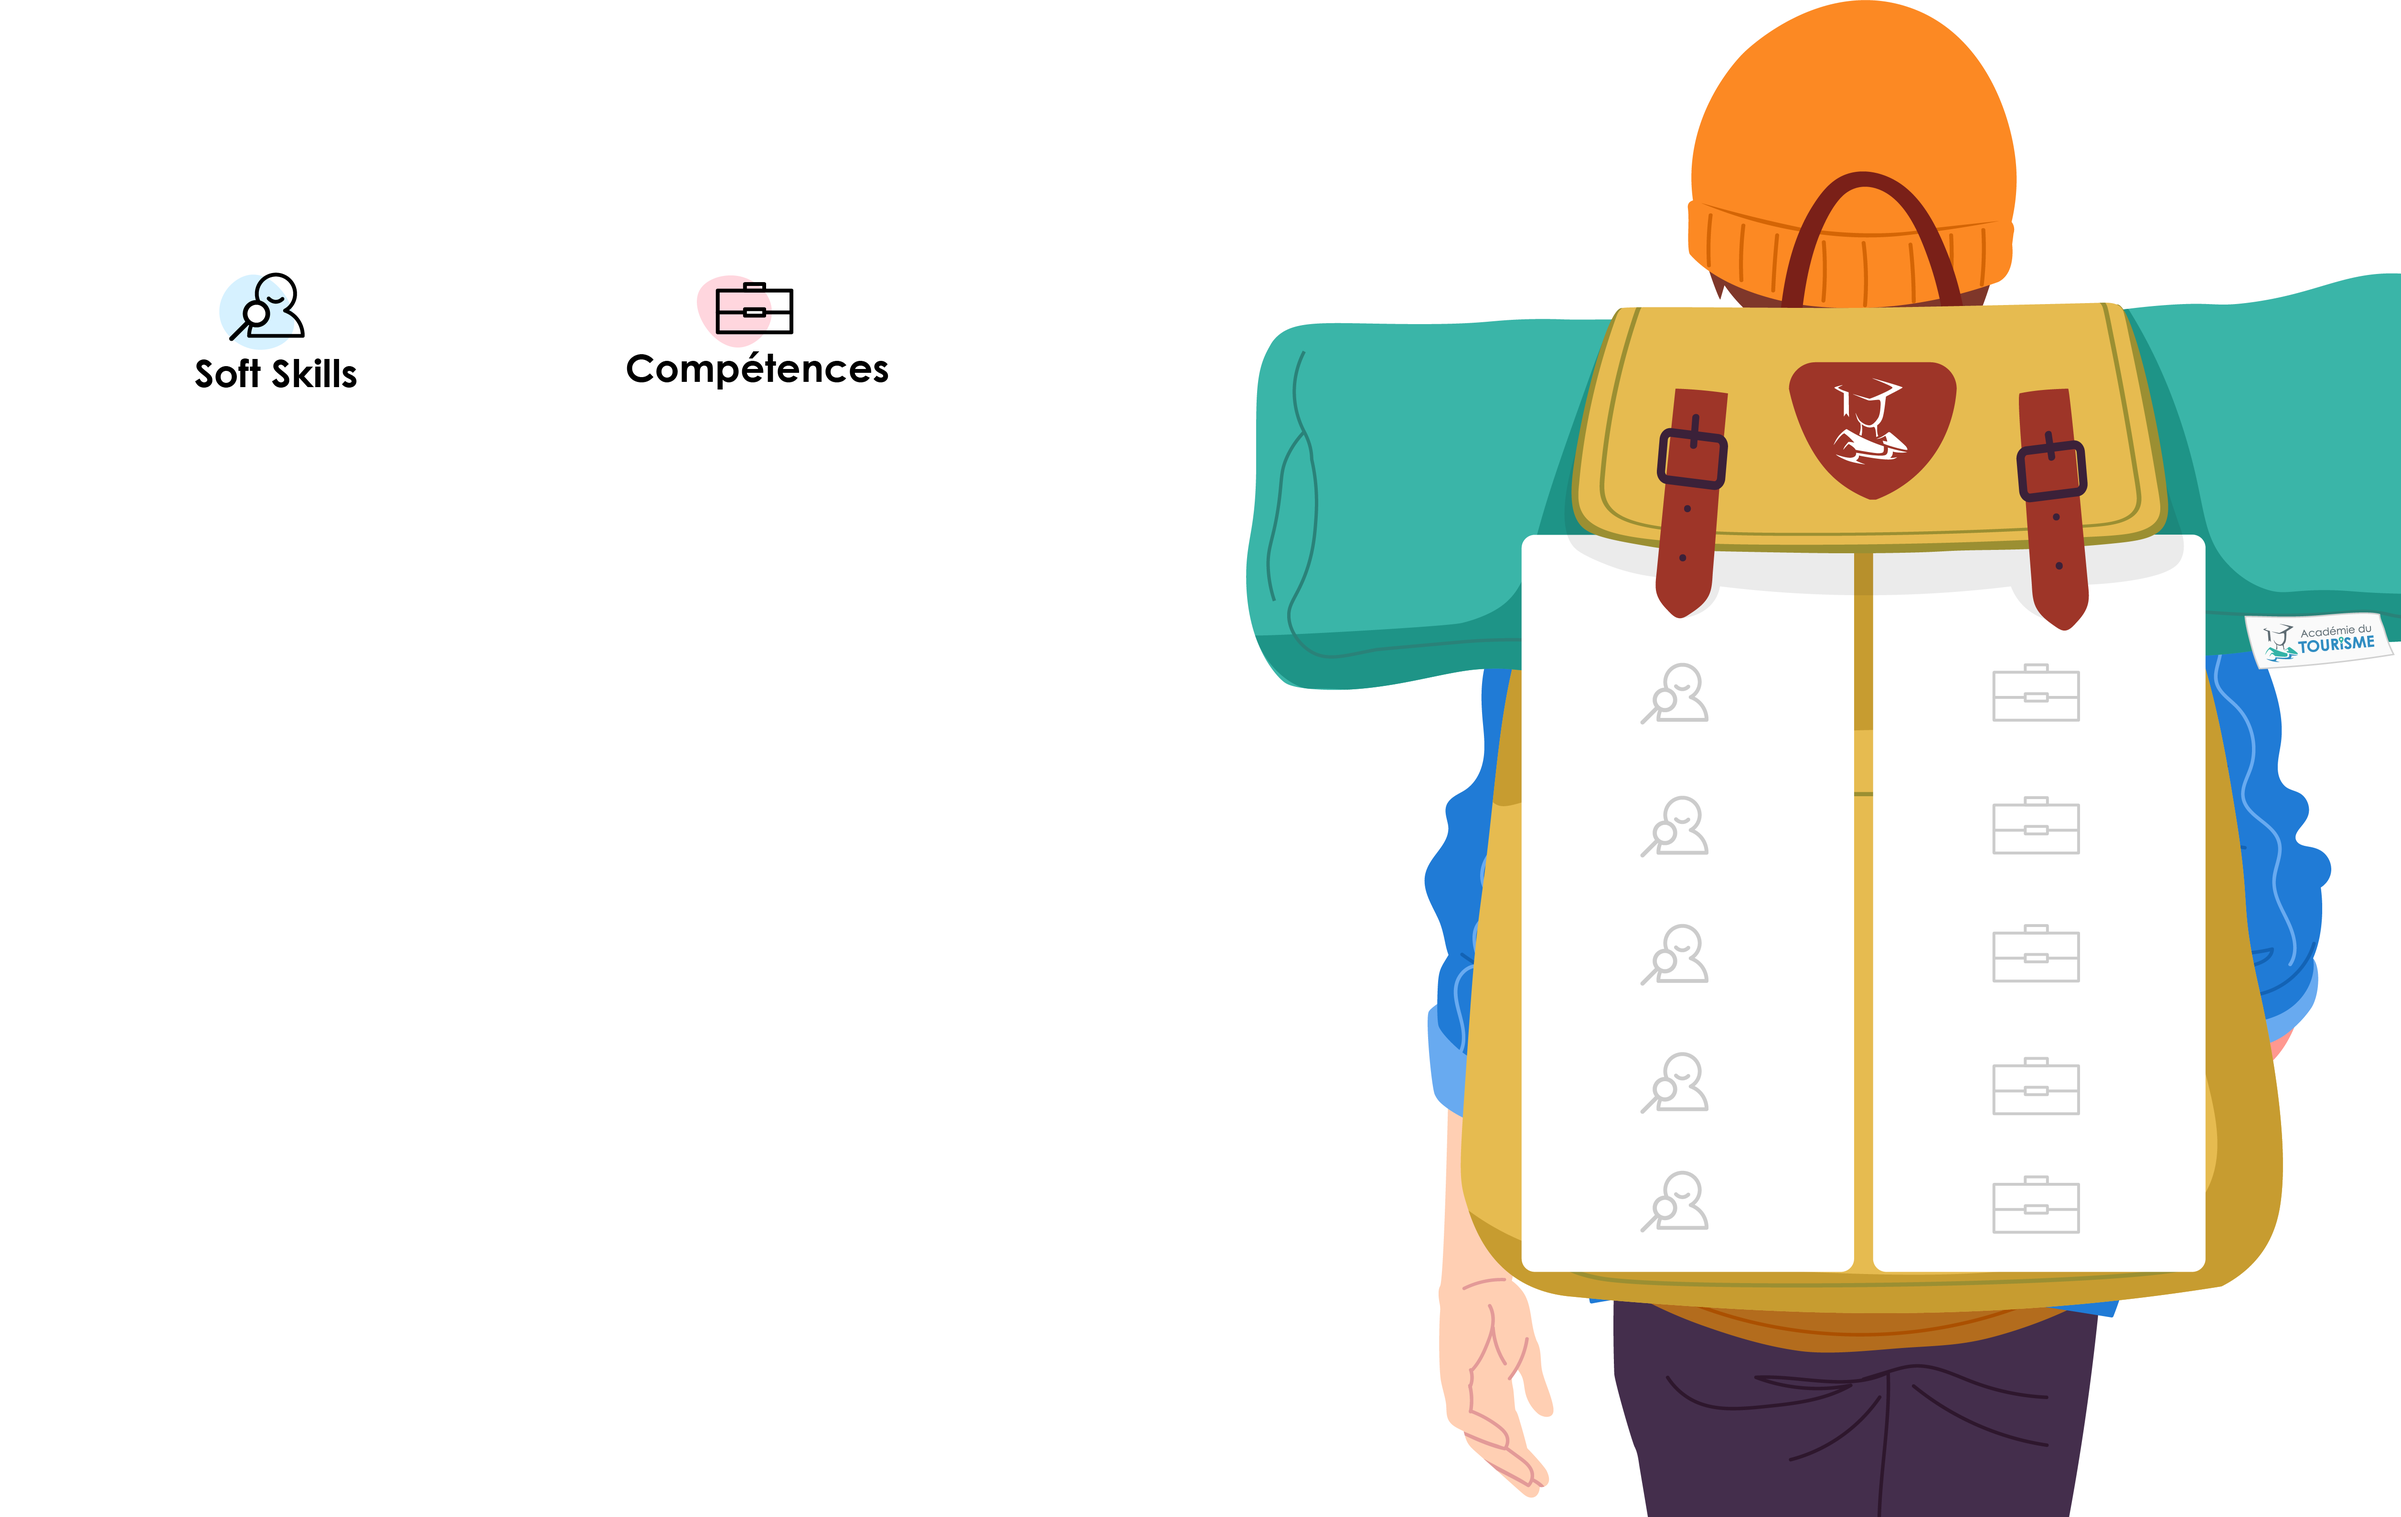
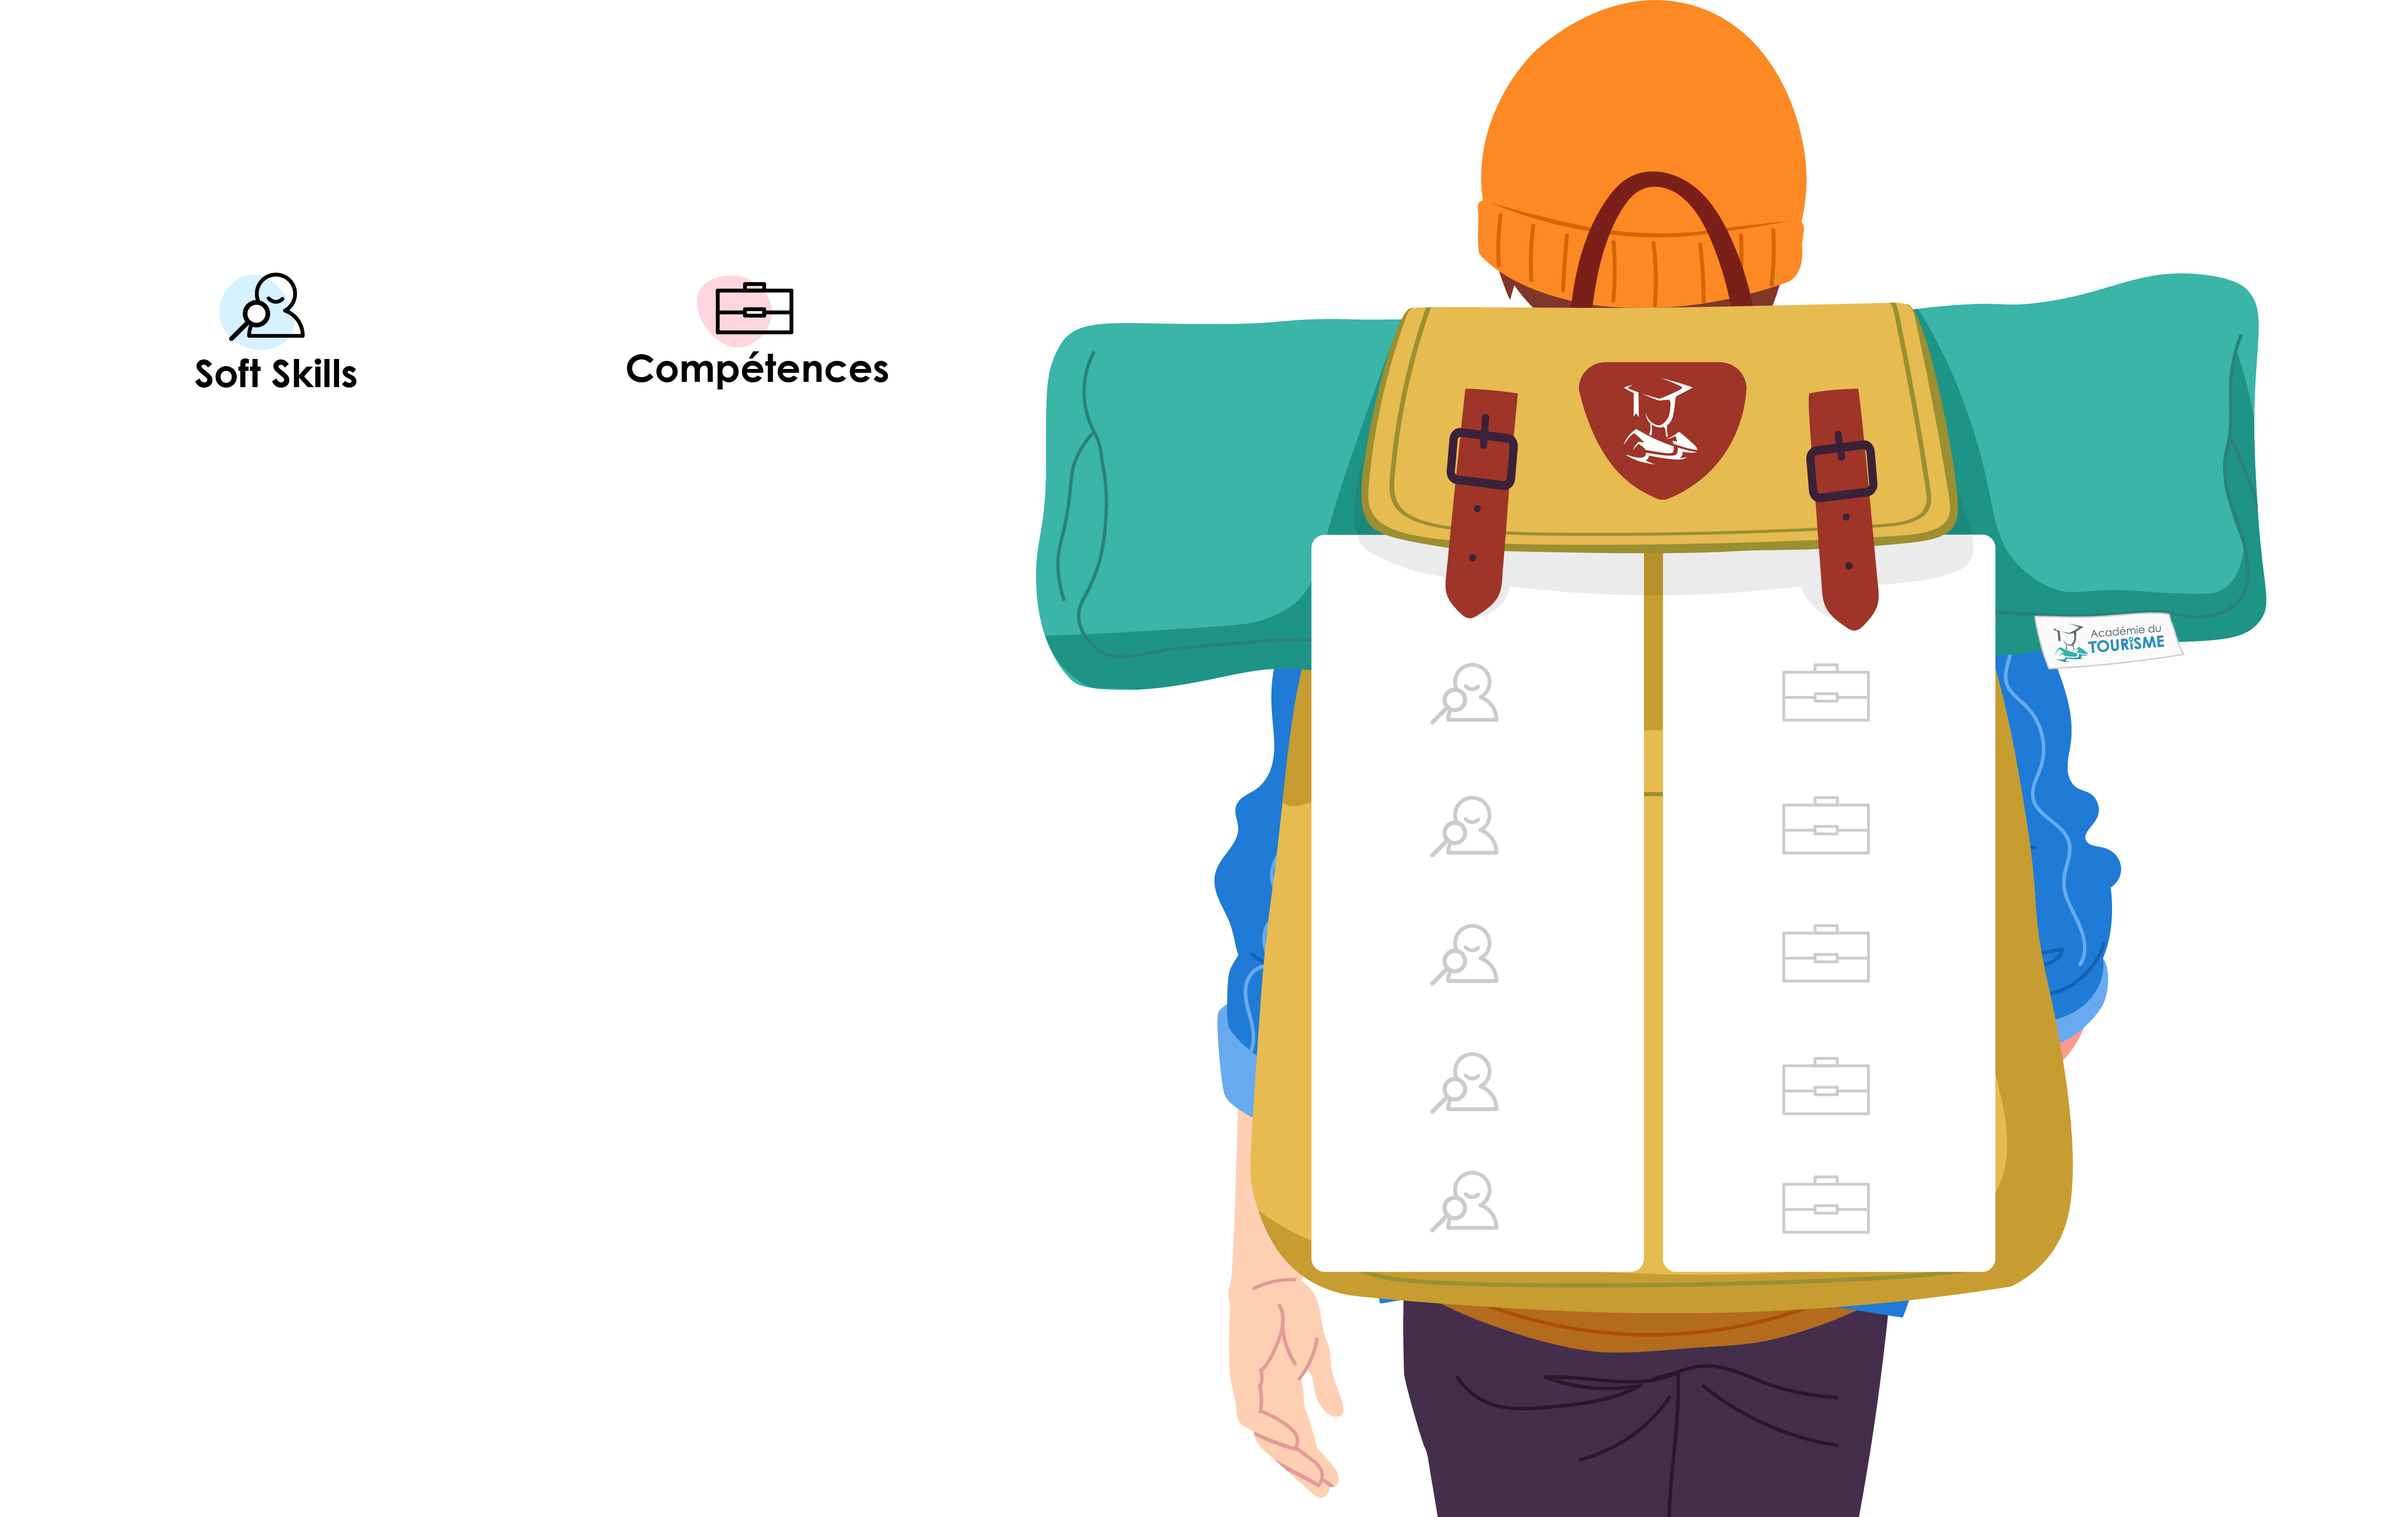
imgs scindées

Changed region(s): [[0.406, 0.0, 1.0, 1.0]]

diff --git a/src/App.tsx b/src/App.tsx
@@ -30,17 +30,7 @@ interface DraggedItem {
 }
 
 const AppBackground = ({ children }: AppBackgroundProps) => (
-  <div className="min-h-screen p-2 md:p-4 relative overflow-x-hidden">
-    <div
-      className="fixed inset-0 z-0"
-      style={{
-        backgroundImage: "url('/fdp_sacados.png')",
-        backgroundSize: "cover",
-        backgroundPosition: "center",
-        backgroundRepeat: "no-repeat",
-        opacity: 0.8,
-      }}
-    />
+  <div className="min-h-screen p-2 md:p-4 relative overflow-x-hidden bg-gray-50">
     <div className="relative z-10 max-w-full md:max-w-[1400px] mx-auto px-2 md:px-0">
       <div className="flex flex-col md:flex-row justify-center items-center md:items-start gap-4 md:gap-8">
         {children}
@@ -56,33 +46,28 @@ const SkillList = ({
   onDragStart,
   onDragOver,
   onDrop,
-  onTouchStart,
-  onTouchEnd,
   isCompetences,
 }: ColumnProps) => (
   <div className="w-full md:w-1/3 lg:w-1/4 mt-[20px] md:mt-[50px] px-2 md:px-4">
+    {/* Ajout de l'icône en haut */}
+    <div className="w-full flex justify-center mb-4">
+      <img 
+        src={isCompetences ? "/ico-competences.png" : "/ico-softskills.png"} 
+        alt={isCompetences ? "Compétences" : "Soft Skills"}
+        className="w-16 h-16 md:w-20 md:h-20 object-contain"
+      />
+    </div>
     <div className="grid grid-cols-1 gap-2">
       {items.map((skill, index) => (
         <div
           key={index}
-          draggable="true"
+          draggable
           onDragStart={(e) => onDragStart(e, skill, id, index)}
-          onTouchStart={(e) => {
-            e.preventDefault();
-            onTouchStart?.(skill, id, index);
-          }}
-          onTouchMove={(e) => {
-            e.preventDefault();
-          }}
-          onTouchEnd={(e) => {
-            e.preventDefault();
-            onTouchEnd?.(e, id, index);
-          }}
-          className={`skill-item p-2 rounded-lg border-2 border-dashed ${
+          className={`p-2 rounded-lg border-2 border-dashed ${
             isCompetences
               ? "border-pink-200 bg-pink-50"
               : "border-blue-200 bg-blue-50"
-          } text-xs md:text-sm cursor-move hover:shadow-md transition-shadow min-h-[40px] md:min-h-[60px] flex items-center justify-center text-center active:scale-95`}
+          } text-xs md:text-sm cursor-move hover:shadow-md transition-shadow min-h-[40px] md:min-h-[60px] flex items-center justify-center text-center`}
         >
           {skill}
         </div>
@@ -142,42 +127,31 @@ const handleTouchEnd = (
   setDraggedItem(null);
 };
 
-const Backpack = ({
-  skills,
-  onDragStart,
-  onDragOver,
-  onDrop,
-  onTouchStart,
-  onTouchEnd,
-}: BackpackProps) => (
-  <div className="w-full md:w-[600px] lg:w-[800px] mx-auto mt-4 md:mt-[100px] px-4">
-    <div className="grid grid-cols-2 gap-4">
+const Backpack = ({ skills, onDragStart, onDragOver, onDrop }: BackpackProps) => (
+  <div className="relative w-full md:w-[600px] lg:w-[800px] mx-auto mt-4 md:mt-[100px] px-4">
+    {/* Image du sac à dos en arrière-plan */}
+    <div className="absolute inset-0 pointer-events-none">
+      <img 
+        src="/sacados.png" 
+        alt="Sac à dos"
+        className="w-full h-full object-contain opacity-90"
+      />
+    </div>
+    <div className="grid grid-cols-2 gap-4 relative z-10">
       {/* Colonne Soft Skills */}
       <div className="space-y-2">
         {skills.backpack.slice(0, 5).map((skill, index) => (
           <div
             key={index}
-            data-droppable="true"
-            data-target="backpack"
-            data-index={index}
             onDragOver={onDragOver}
             onDrop={(e) => onDrop(e, "backpack", index)}
-            onTouchEnd={(e) => onTouchEnd?.(e, "backpack", index)}
-            className="h-16 md:h-20 border-2 border-dashed border-gray-300 rounded-lg flex items-center justify-center hover:border-blue-300 transition-colors"
+            className="h-16 md:h-20 border-2 border-dashed border-gray-300 rounded-lg flex items-center justify-center bg-white bg-opacity-80"
           >
             {skill && (
               <div
                 draggable
-                data-draggable="true"
-                data-skill={skill}
-                data-source="backpack"
-                data-index={index}
                 onDragStart={(e) => onDragStart(e, skill, "backpack", index)}
-                onTouchStart={(e) => {
-                  e.preventDefault();
-                  onTouchStart?.(skill, "backpack", index);
-                }}
-                className="skill-item bg-blue-50 p-2 rounded text-xs md:text-sm cursor-move w-full h-full flex items-center justify-center active:scale-95"
+                className="bg-blue-50 p-2 rounded text-xs md:text-sm cursor-move w-full h-full flex items-center justify-center"
               >
                 {skill}
               </div>
@@ -185,35 +159,20 @@ const Backpack = ({
           </div>
         ))}
       </div>
-
       {/* Colonne Compétences */}
       <div className="space-y-2">
         {skills.backpack.slice(5, 10).map((skill, index) => (
           <div
             key={index + 5}
-            data-droppable="true"
-            data-target="backpack"
-            data-index={index + 5}
             onDragOver={onDragOver}
             onDrop={(e) => onDrop(e, "backpack", index + 5)}
-            onTouchEnd={(e) => onTouchEnd?.(e, "backpack", index + 5)}
-            className="h-16 md:h-20 border-2 border-dashed border-gray-300 rounded-lg flex items-center justify-center hover:border-pink-300 transition-colors"
+            className="h-16 md:h-20 border-2 border-dashed border-gray-300 rounded-lg flex items-center justify-center bg-white bg-opacity-80"
           >
             {skill && (
               <div
                 draggable
-                data-draggable="true"
-                data-skill={skill}
-                data-source="backpack"
-                data-index={index + 5}
-                onDragStart={(e) =>
-                  onDragStart(e, skill, "backpack", index + 5)
-                }
-                onTouchStart={(e) => {
-                  e.preventDefault();
-                  onTouchStart?.(skill, "backpack", index + 5);
-                }}
-                className="skill-item bg-pink-50 p-2 rounded text-xs md:text-sm cursor-move w-full h-full flex items-center justify-center active:scale-95"
+                onDragStart={(e) => onDragStart(e, skill, "backpack", index + 5)}
+                className="bg-pink-50 p-2 rounded text-xs md:text-sm cursor-move w-full h-full flex items-center justify-center"
               >
                 {skill}
               </div>
